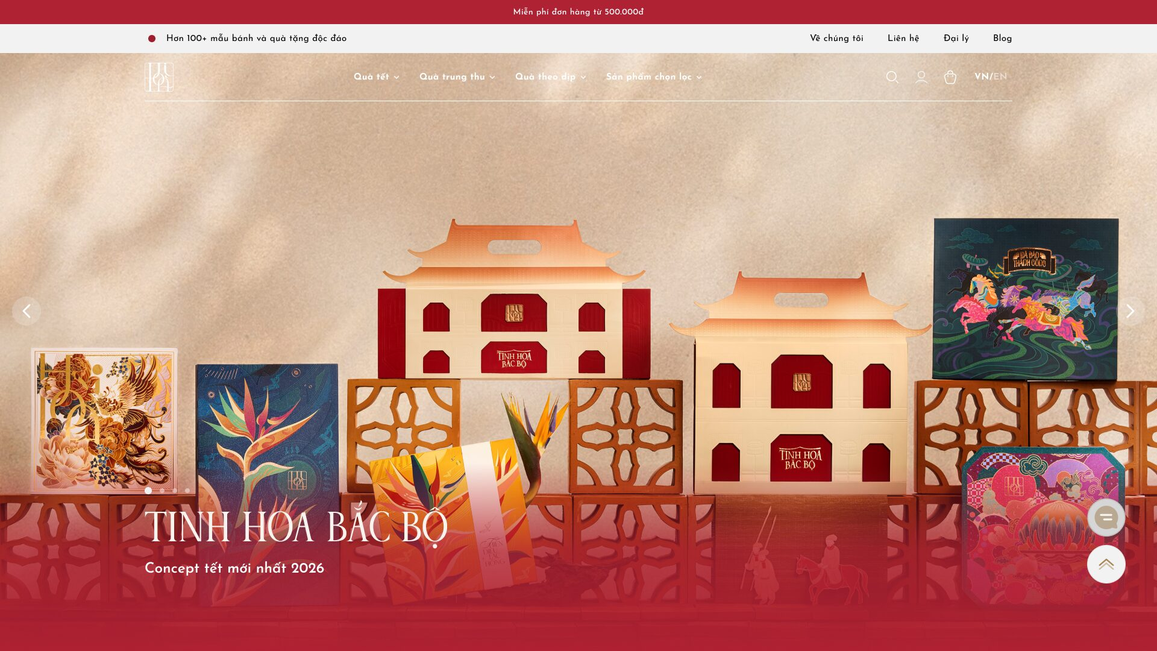
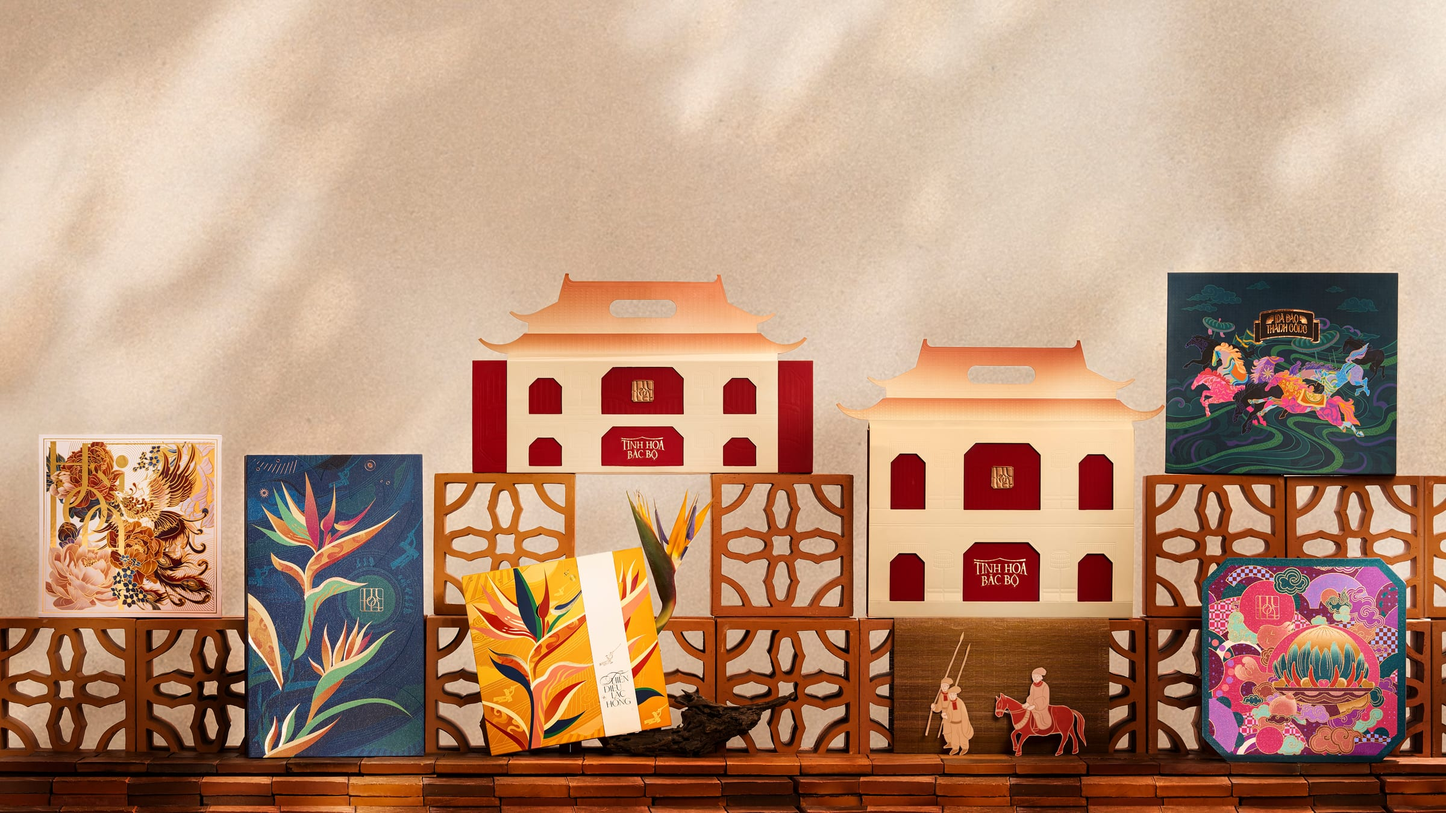
Fix Home page parity with Figma
The hero and custom-services panels were using full-frame Figma exports as
images. Those exports bake the nav, headings and buttons into the bitmap, so
the real markup rendered a second copy on top — hence the doubled nav and
overlapping captions. Both now use the nodes' raw image fills instead, and the
hero's red caption scrim is reproduced as a CSS gradient (node 1214:38719).

Also brings copy and layout back in line with the current Figma, which has moved
on since the specs were written:

- Section order: Benefits sits after Featured products, not before it
- Nav: hotline announcement + new utility-bar tagline
- Hero: "TINH HOA VIỆT NAM" / "Bộ sưu tập Quà tặng Trung Thu 2026"
- Benefits: "Giao hàng toàn quốc", "Chiết khấu lên tới 35%"
- Featured cards: "Phẩm quà"/"Khám phá" on desktop, edition labels, correct titles
- Blog heading: "HOÀI KỂ BẠN NGHE"
- Về Hoài: AboutCardViewModel had no ImageUrl, so the cards rendered as empty
  grey divs; wired up the four photos and switched the labels to brand red

design-specs/home/01 updated to match, with a note on why frame exports must not
be used as background plates.

diff --git a/src/Hoaii.Web/wwwroot/css/home.css b/src/Hoaii.Web/wwwroot/css/home.css
@@ -70,9 +70,16 @@ body.hero-overlay .nav-menu .item.is-open {
   display: flex;
   flex-direction: column;
   align-items: flex-start;
-  gap: 16px;
+  gap: 20px;
   color: #fff;
-  padding: 16px 240px 80px;
+  padding: 40px 240px 120px;
+  /* Red scrim so the caption stays legible over the product plate (node 1214:38719). */
+  background: linear-gradient(
+    to bottom,
+    rgba(175, 34, 52, 0) 0%,
+    rgba(175, 34, 52, 0.8) 46.765%,
+    var(--color-brand-red) 100%
+  );
 }
 .home-hero__dots {
   display: flex;
@@ -93,14 +100,15 @@ body.hero-overlay .nav-menu .item.is-open {
 .home-hero__title {
   font-family: var(--font-display);
   font-size: 70px;
-  line-height: 64px;
+  line-height: 80px;
   letter-spacing: 0.7px;
+  color: var(--color-brand-gold-bg);
 }
 .home-hero__subtitle {
   font-family: var(--font-body);
-  font-weight: 500;
-  font-size: 20px;
-  line-height: 23px;
+  font-weight: 600;
+  font-size: 24px;
+  line-height: 32px;
 }
 
 @media (max-width: 767.98px) {
@@ -262,6 +270,14 @@ body.hero-overlay .nav-menu .item.is-open {
   line-height: 32px;
   color: #1C1C1C;
 }
+.featured-card__edition {
+  font-family: var(--font-body);
+  font-weight: 500;
+  font-size: 20px;
+  line-height: 23px;
+  color: #1C1C1C;
+  margin-top: -40px; /* sits directly under the title, inside the 53px stack gap */
+}
 .featured-card__title {
   font-family: var(--font-display);
   color: #1C1C1C;
@@ -372,7 +388,7 @@ body.hero-overlay .nav-menu .item.is-open {
   top: 43.9%;
   width: 13.5%;
   height: 13.4%;
-  background: var(--color-grey-300);
+  background: var(--color-grey-300) url('/images/home/story-banner.jpg') center / cover no-repeat;
 }
 .story-banner__title {
   position: relative;
@@ -407,9 +423,10 @@ body.hero-overlay .nav-menu .item.is-open {
 .about-subtitle { font-family: var(--font-body); font-size: 20px; line-height: 23px; font-weight: 500; color: var(--color-brand-gold-deep, #795F3D); }
 .about-cards { display: flex; gap: 16px; align-items: center; justify-content: center; padding-inline: 240px; width: 100%; max-width: 1920px; margin: 0 auto; }
 .about-card { flex: 1 1 0; min-width: 0; display: flex; flex-direction: column; overflow: hidden; border-radius: 8px; }
-.about-card__img { background: var(--color-grey-300); height: 480px; width: 100%; border-radius: 8px; background-size: cover; background-position: center; }
+.about-card__img { background: var(--color-grey-300); height: 480px; width: 100%; border-radius: 8px; overflow: hidden; }
+.about-card__img img { width: 100%; height: 100%; object-fit: cover; display: block; }
 .about-card__label { height: 208px; display: flex; align-items: center; justify-content: center; text-align: center; padding: 8px; }
-.about-card__label span { font-family: var(--font-display); font-size: 48px; line-height: 56px; color: var(--color-brand-gold); }
+.about-card__label span { font-family: var(--font-display); font-size: 48px; line-height: 56px; color: var(--color-brand-red); }
 .about-card__label--to-gold { background: linear-gradient(to bottom, #fff 0%, #FBEECD 100%); }
 .about-card__label--from-gold { background: linear-gradient(to bottom, #FBEECD 0%, #fff 100%); }
 

diff --git a/src/Hoaii.Web/wwwroot/css/site.css b/src/Hoaii.Web/wwwroot/css/site.css
@@ -124,6 +124,14 @@ button {
   }
 }
 
+/* Figma often ships different copy per breakpoint; render both and toggle. */
+.u-mobile-only { display: none; }
+
+@media (max-width: 767.98px) {
+  .u-desktop-only { display: none; }
+  .u-mobile-only { display: inline; }
+}
+
 main {
   min-height: 60vh;
 }

diff --git a/src/Hoaii.Web/Controllers/HomeController.cs b/src/Hoaii.Web/Controllers/HomeController.cs
@@ -13,22 +13,22 @@ public class HomeController : Controller
         {
             Benefits =
             [
-                new() { IconPath = "/images/icons/benefit-shipping.svg", Title = "Miễn phí giao hàng", Description = "Trao tận tay bạn, miễn phí trên toàn quốc", MobileLine1 = "Miễn phí", MobileLine2 = "giao hàng" },
+                new() { IconPath = "/images/icons/benefit-shipping.svg", Title = "Giao hàng toàn quốc", Description = "Thay bạn kết nối những tri âm, đưa quà đến từng ô cửa", MobileLine1 = "Giao hàng", MobileLine2 = "toàn quốc" },
                 new() { IconPath = "/images/icons/benefit-quality.svg", Title = "Cam kết chất lượng", Description = "Tận tâm trong từng sản phẩm, an tâm tuyệt đối", MobileLine1 = "Cam kết", MobileLine2 = "chất lượng" },
-                new() { IconPath = "/images/icons/benefit-discount.svg", Title = "Chiết khấu tới 30%", Description = "Đặc quyền ưu đãi dành riêng cho bạn", MobileLine1 = "Chiết khấu", MobileLine2 = "tới 30%" },
+                new() { IconPath = "/images/icons/benefit-discount.svg", Title = "Chiết khấu lên tới 35%", Description = "Giải pháp ngân sách tối ưu cho đơn hàng doanh nghiệp", MobileLine1 = "Chiết khấu", MobileLine2 = "lên tới 35%" },
             ],
             FeaturedTiles =
             [
-                // Row 1
-                new() { IsCard = true, AccentColor = "red", CollectionLabel = "Bộ sưu tập", TitleLine1 = "TINH HOA", TitleLine2 = "BẮC BỘ", LinkUrl = "/danh-muc/qua-tet" },
+                // Row 1 — card sits left (Figma node 1417:39224)
+                new() { IsCard = true, AccentColor = "gold", TitleLine1 = "THIÊN ĐIỂU", TitleLine2 = "LẠC HỒNG", EditionLabel = "(Phiên bản thường)", LinkUrl = "/danh-muc/qua-tet" },
                 new() { ImageUrl = "/images/placeholders/featured-2.jpg" },
                 new() { ImageUrl = "/images/placeholders/featured-3.jpg" },
-                // Row 2
+                // Row 2 — card sits right (node 1214:38752)
                 new() { ImageUrl = "/images/placeholders/featured-4.jpg" },
                 new() { ImageUrl = "/images/placeholders/featured-5.jpg" },
-                new() { IsCard = true, AccentColor = "teal", CollectionLabel = "Bộ sưu tập", TitleLine1 = "THIÊN ĐIỂU", TitleLine2 = "LẠC HỒNG", LinkUrl = "/danh-muc/qua-tet" },
-                // Row 3
-                new() { IsCard = true, AccentColor = "gold", CollectionLabel = "Bộ sưu tập", TitleLine1 = "DÂN GIAN", TitleLine2 = "HỌA KỲ", LinkUrl = "/danh-muc/qua-tet" },
+                new() { IsCard = true, AccentColor = "teal", TitleLine1 = "THIÊN ĐIỂU", TitleLine2 = "LẠC HỒNG", EditionLabel = "(Phiên bản cao cấp)", LinkUrl = "/danh-muc/qua-tet" },
+                // Row 3 — card sits left (node 1214:38738)
+                new() { IsCard = true, AccentColor = "red", TitleLine1 = "TINH HOA", TitleLine2 = "BẮC BỘ", LinkUrl = "/danh-muc/qua-tet" },
                 new() { ImageUrl = "/images/placeholders/featured-6.jpg" },
                 new() { ImageUrl = "/images/placeholders/featured-7.jpg" },
             ],
@@ -39,7 +39,7 @@ public class HomeController : Controller
                     Key = "in-khac",
                     Label = "In khắc logo cá nhân",
                     IconSvg = "engraving",
-                    PanelImageUrl = "/images/placeholders/service-in-khac.jpg",
+                    PanelImageUrl = "/images/home/service-panel.jpg",
                     Caption = "Cá nhân hóa sản phẩm bằng logo, tên riêng của bạn.",
                     CaptionColorHex = "#F2F2F2",
                     CtaUrl = "/dich-vu/in-khac",
@@ -49,7 +49,7 @@ public class HomeController : Controller
                     Key = "goi-qua",
                     Label = "Lựa chọn gói quà",
                     IconSvg = "gift",
-                    PanelImageUrl = "/images/placeholders/service-goi-qua.jpg",
+                    PanelImageUrl = "/images/home/service-panel.jpg",
                     Caption = "Tự do phối hợp gói quà theo sở thích và ngân sách",
                     CaptionColorHex = "#F7E9EB",
                     CtaUrl = "/dich-vu/lua-chon-goi-qua",
@@ -59,7 +59,7 @@ public class HomeController : Controller
                     Key = "thiet-ke",
                     Label = "Thiết kế ấn phẩm",
                     IconSvg = "notepad-edit",
-                    PanelImageUrl = "/images/placeholders/service-thiet-ke.jpg",
+                    PanelImageUrl = "/images/home/service-panel.jpg",
                     Caption = "Ấn phẩm đi kèm được thiết kế riêng, độc bản",
                     CaptionColorHex = "#F7E9EB",
                     CtaUrl = "/dich-vu/thiet-ke",
@@ -67,10 +67,10 @@ public class HomeController : Controller
             ],
             AboutCards =
             [
-                new() { Caption = "Tính bản sắc", ImageOnTop = true },
-                new() { Caption = "Sự tinh tế", ImageOnTop = false },
-                new() { Caption = "Tư duy khởi sinh", ImageOnTop = true },
-                new() { Caption = "Sự Tiếp nối", ImageOnTop = false },
+                new() { Caption = "Tính bản sắc", ImageOnTop = true, ImageUrl = "/images/home/about-ban-sac.jpg" },
+                new() { Caption = "Sự tinh tế", ImageOnTop = false, ImageUrl = "/images/home/about-tinh-te.jpg" },
+                new() { Caption = "Tư duy khởi sinh", ImageOnTop = true, ImageUrl = "/images/home/about-khoi-sinh.jpg" },
+                new() { Caption = "Sự Tiếp nối", ImageOnTop = false, ImageUrl = "/images/home/about-tiep-noi.jpg" },
             ],
             CustomerLogos =
             [

diff --git a/src/Hoaii.Web/Models/Home/HomeViewModels.cs b/src/Hoaii.Web/Models/Home/HomeViewModels.cs
@@ -22,10 +22,14 @@ public class BenefitViewModel
 public class FeaturedTileViewModel
 {
     public bool IsCard { get; init; }
-    public string? AccentColor { get; init; } // "red" | "gold"
+    public string? AccentColor { get; init; } // "red" | "teal" | "gold"
     public string? CollectionLabel { get; init; }
     public string? TitleLine1 { get; init; }
     public string? TitleLine2 { get; init; }
+
+    /// <summary>Edition line under the title, e.g. "(Phiên bản thường)". Desktop only; Figma omits it on mobile.</summary>
+    public string? EditionLabel { get; init; }
+
     public string? ImageUrl { get; init; }
     public string LinkUrl { get; init; } = "#";
 }
@@ -46,6 +50,7 @@ public class AboutCardViewModel
 {
     public required string Caption { get; init; }
     public required bool ImageOnTop { get; init; }
+    public required string ImageUrl { get; init; }
 }
 
 public class BlogPostViewModel

diff --git a/design-specs/home/01-hero-and-benefits.md b/design-specs/home/01-hero-and-benefits.md
@@ -2,6 +2,12 @@
 
 Figma file: `uQFY9gwfNbNSeTM6zmspzo`
 
+> **Section order:** Figma places Đãi ngộ (Benefits) *after* "Danh sách sản phẩm đặc biệt",
+> not directly after the Hero. See `Views/Home/Index.cshtml` for the authoritative order.
+>
+> **Copy updated in Figma since this spec was first written** — the values below now match Figma:
+> announcement bar, utility-bar tagline, hero caption, and all three benefit columns.
+
 Design tokens referenced throughout:
 - Brand red `#AF2234` (red-500), red-600 `#9F1F2F`
 - Brand gold/tan `#AA8656` (yellow-500), yellow-400 `#BB9E78`, yellow-50 `#F7F3EE`
@@ -14,14 +20,21 @@ Design tokens referenced throughout:
 
 ### Desktop
 
-Node: `1214:38715` — 1920px wide section, `flex-col`, `justify-between`, background `#7A7A7A` (placeholder for hero background image/slide).
+Node: `1214:38715` — 1920px wide section, `flex-col`, `justify-between`.
+
+Background is the product plate photo (`wwwroot/images/home/hero.jpg`), exported from the node's
+*raw image fill* — **not** an export of the frame itself, which bakes the nav and caption into the
+bitmap and double-renders them under the real markup.
+
+The caption sits on a red scrim (node `1214:38719`), `top: 768px`, padding `40px 240px 120px`:
+`linear-gradient(to bottom, rgba(175,34,52,0) 0%, rgba(175,34,52,0.8) 46.765%, #AF2234 100%)`.
 
 **Structure (top → bottom, all children `position: absolute` within a 1920×~950px stage):**
 
 1. **Nav bar** (`top: 0`, full width 1920px, `flex-col`, gap 8px) — sits on top of hero image, transparent/overlaid:
-   - Announcement bar: height 40px, bg `#AF2234`, centered text, padding 10px. Text: "Miễn phí đơn hàng từ 500.000đ" — Josefin Sans Medium, 14px, color white, letter-spacing 0.4px, line-height 24px.
+   - Announcement bar: height 40px, bg `#AF2234`, centered text, padding 10px. Text: "Hotline: 0941.686.682" — Josefin Sans Medium, 14px, color white, letter-spacing 0.4px, line-height 24px.
    - Secondary bar: height 48px, bg `#F2F2F2`, inner row max-width 1440px (centered), `justify-content: space-between`, height 24px.
-     - Left: icon (24×24) + text "Hơn 100+ mẫu bánh và quà tặng độc đáo" — Josefin Sans Regular, 15px, black, letter-spacing 0.4px.
+     - Left: icon (24×24) + text "Đón đầu xu hướng quà tặng với những vật phẩm thiết kế mới nhất vừa ra mắt!" — Josefin Sans Regular, 15px, black, letter-spacing 0.4px.
      - Right: nav links row, gap 40px — "Về chúng tôi", "Liên hệ", "Đại lý", "Blog" — Josefin Sans Regular, 15px, black, letter-spacing 0.4px.
    - Main nav row: height 80px, border-bottom 1px solid white, inner row max-width 1440px centered, `justify-content: space-between`.
      - Logo: 48×48px, left-aligned.
@@ -32,9 +45,9 @@ Node: `1214:38715` — 1920px wide section, `flex-col`, `justify-between`, backg
 
 3. **Hero text block**: `top: 826px`, width 1920px, padding `16px 240px 80px`, `flex-col`, gap 32px, align items start.
    - Slide-dots indicator: 75×12px image/sprite (4 dots, pagination indicator placeholder), `Frame163`.
-   - Text group (gap 16px, color white):
-     - H1: "VIỆT NAM HOA THỊ" — **LC Sac Trial Regular**, 70px, line-height 64px, letter-spacing 0.7px, width 100%.
-     - Subtitle: "Concept tết mới nhất 2026" — Josefin Sans Medium, 20px, line-height 23px.
+   - Text group (gap 8px):
+     - H1: "TINH HOA VIỆT NAM" — **LC Sac Trial Regular**, 70px, line-height 80px, letter-spacing 0.7px, color `#F7F3EE`, width 100%.
+     - Subtitle: "Bộ sưu tập Quà tặng Trung Thu 2026" — Josefin Sans SemiBold, 24px, line-height 32px, white.
 
 4. **Chat/contact widget** (bottom-right, `left: 1802px`, `top: 826px`, box 69×65px): stack of 3 circular buttons (60×60px, bg `#F2F2F2`, border-radius 150px/circle, padding 15px, positioned with slight left offset 4px, top 2.5px, likely stacked/expandable on hover) — icons: phone call (36×36), Zalo logo, Messenger-style icon. Plus one "toggle" circular button 46.667px core icon, bg `#D6D6D6`, border 1.667px solid `#BFBFBF`, border-radius 46px.
 
@@ -71,7 +84,7 @@ Node: `1062:12563` — 430px wide, background `#000000` (black placeholder for h
 
 ## Đãi ngộ (Benefits)
 
-3-column trust-badge strip, icon + title (brand red) + description (grey), repeated for: **Miễn phí giao hàng**, **Cam kết chất lượng**, **Chiết khấu tới 30%**.
+3-column trust-badge strip, icon + title (brand red) + description (grey), repeated for: **Giao hàng toàn quốc**, **Cam kết chất lượng**, **Chiết khấu lên tới 35%**.
 
 ### Desktop
 
@@ -87,9 +100,9 @@ Three equal columns, each `width: 356px`, `flex-col`, `align-items:center`, `gap
 Column content:
 | # | Title | Description |
 |---|-------|--------------|
-| 1 | Miễn phí giao hàng | Trao tận tay bạn, miễn phí trên toàn quốc |
+| 1 | Giao hàng toàn quốc | Thay bạn kết nối những tri âm, đưa quà đến từng ô cửa |
 | 2 | Cam kết chất lượng | Tận tâm trong từng sản phẩm, an tâm tuyệt đối |
-| 3 | Chiết khấu tới 30% | Đặc quyền ưu đãi dành riêng cho bạn |
+| 3 | Chiết khấu lên tới 35% | Giải pháp ngân sách tối ưu cho đơn hàng doanh nghiệp |
 
 **CSS approach:** `.benefits { display:flex; justify-content:space-between; padding:40px 240px 48px; background:#fff; } .benefit-col { width:356px; display:flex; flex-direction:column; align-items:center; gap:28px; } .benefit-icon { width:120px; height:120px; display:flex; align-items:flex-end; justify-content:center; } .benefit-title { font:600 24px/32px 'Josefin Sans'; color:#AF2234; text-align:center; } .benefit-desc { font:500 16px/20px 'Josefin Sans'; color:#5A5A5A; text-align:center; }`
 
@@ -108,9 +121,9 @@ Three columns, each `flex: 1 0 0` (equal share, no fixed width), `flex-col`, `al
 Column content (mobile shows title only, split in two lines — no separate grey description paragraph):
 | # | Line 1 | Line 2 |
 |---|--------|--------|
-| 1 | Miễn phí | giao hàng |
+| 1 | Giao hàng | toàn quốc |
 | 2 | Cam kết | chất lượng |
-| 3 | Chiết khấu | tới 30% |
+| 3 | Chiết khấu | lên tới 35% |
 
 **CSS approach:** `.benefits-mobile { display:flex; justify-content:space-between; padding:40px 16px; background:#fff; } .benefit-col { flex:1 1 0; min-width:0; display:flex; flex-direction:column; align-items:center; gap:16px; } .benefit-icon { width:40px; height:40px; display:flex; align-items:flex-end; justify-content:center; } .benefit-label { font:400 13px/16px 'Josefin Sans'; color:#AF2234; text-align:center; }`
 
